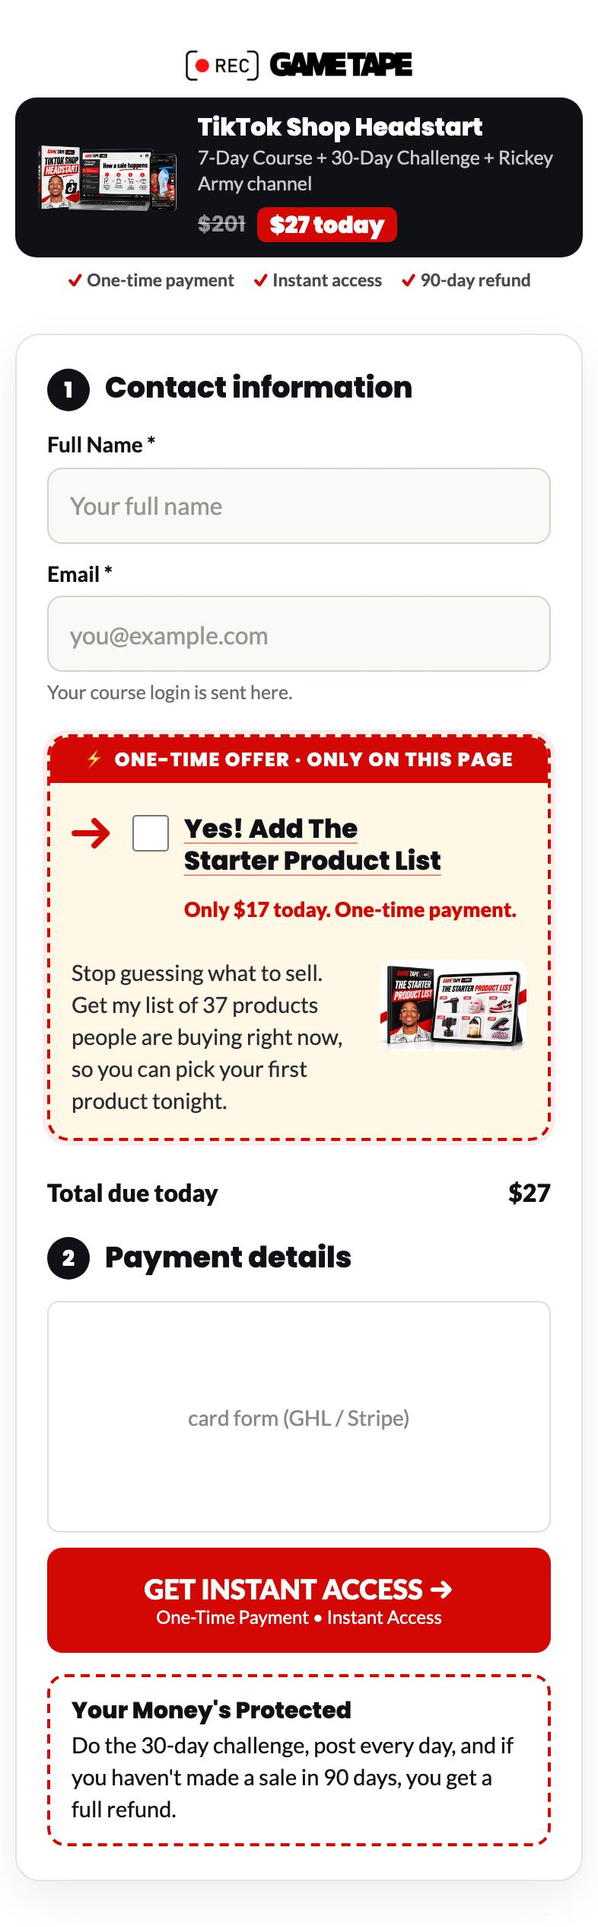
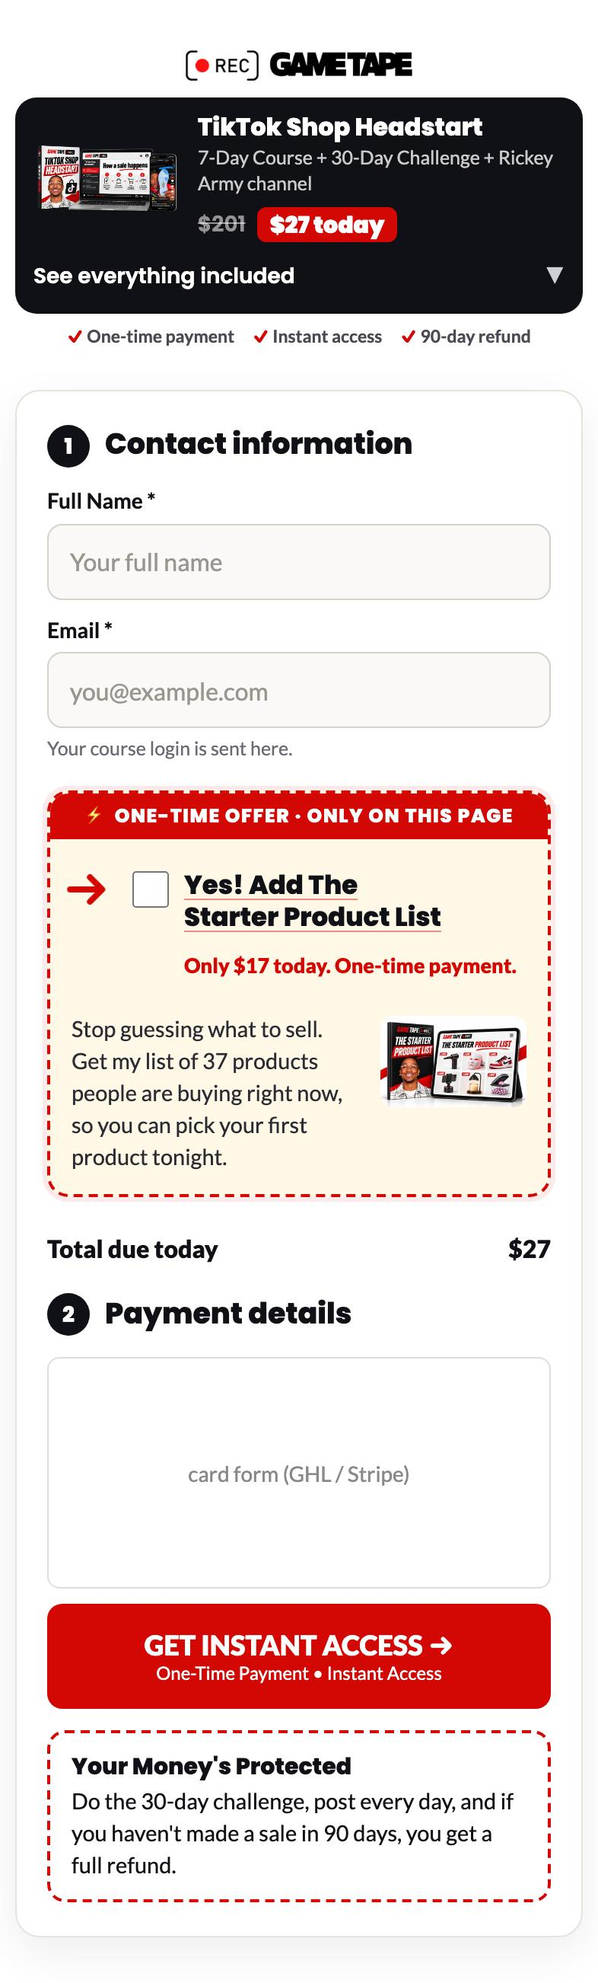
Checkout: 'See everything included' toggle on the phone card, built from data and checked

diff --git a/examples/rickey-headstart/funnel-pages/preview/checkout.html b/examples/rickey-headstart/funnel-pages/preview/checkout.html
@@ -1,5 +1,6 @@
 <!doctype html><html lang="en"><head><meta charset="utf-8"><meta name="viewport" content="width=device-width,initial-scale=1"><title>Checkout preview</title></head><body><style>body{margin:0;font-family:Arial,sans-serif}.section-x{padding:20px 0}.c-row{max-width:1170px;margin:0 auto;display:flex;flex-wrap:wrap;padding:10px 5px;box-sizing:border-box}.c-column{flex:1 1 0;min-width:0;padding:10px 5px;box-sizing:border-box}.order-form__surface{padding:10px}.order-form__field-grid{display:grid;grid-template-columns:1fr 1fr;gap:10px}.order-form__input{width:100%;border:0;border-bottom:1px solid #ccc;height:32px}.order-form__prod{display:flex;justify-content:space-between}.order-form__bump{display:flex;gap:8px;padding:12px}.order-form__bump-headline{text-align:right}.order-form__bump-oto{text-align:right}.order-form__summary-row{display:flex;justify-content:space-between;padding:6px 0}.mock-card{height:150px;border:1px solid #ddd;border-radius:8px;display:flex;align-items:center;justify-content:center;color:#888;font-size:14px;margin:10px 0}.order-form__cta{width:100%;border:0;border-radius:10px;padding:16px;background:#D30805;color:#ffffff;font-weight:800;font-size:18px}.order-form__cta-sub{display:block;font-size:12px;font-weight:400}.c-button{text-align:center}.mocknote{background:#fffbe6;border-bottom:1px solid #eadf9c;font:12px/1.4 Arial;padding:6px 10px;color:#5c5200}@media(max-width:767px){.c-row{display:block}.order-form__field-grid{grid-template-columns:1fr}}</style><div class="section-x"><div class="c-row"><div class="c-column"><div class="inner"><div class="c-custom-code"><div id="gtc-root"><!-- Checkout: left column + styling for the GHL order form and order bump on the right. Root id: gtc-root
-     Desktop: full offer column (.gtc-d). Phone: one compact card (.gtc-m) so the form shows on the first screen.
+     Desktop: full offer column (.gtc-d). Phone: one compact card (.gtc-m) so the form shows on the first screen;
+     "See everything included" on it opens the value stack and the guarantee.
      No wrapper fix here on purpose (it would push the order form under this column). Built by tools/build_funnel_pages.py -->
 <link rel="preconnect" href="https://fonts.gstatic.com" crossorigin>
 <link href="https://fonts.googleapis.com/css2?family=Poppins:wght@600;700;800;900&amp;family=Lato:wght@400;700;900&amp;family=Caveat:wght@600;700&amp;display=swap" rel="stylesheet">
@@ -42,12 +43,41 @@
  .gtc-m .pr{display:flex;align-items:center;gap:8px;font:800 14px/1 Poppins,sans-serif}
  .gtc-m .pr s{color:rgba(255,255,255,.55);font-weight:600}
  .gtc-m .pr b{background:#D30805;color:#ffffff;border-radius:6px;padding:4px 8px;font-size:15px}
+ /* "See everything included": closed on load, opens the value stack + the guarantee */
+ #gtc .gtc-m .more{grid-column:1/-1;margin-top:-12px}
+ #gtc .gtc-m .tg{position:relative;display:flex;align-items:center;justify-content:space-between;width:100%;margin:0;padding:12px 0 4px;background:none;border:0;border-radius:0;box-shadow:none;color:#fff;font:600 14px/1.5 Poppins,sans-serif;letter-spacing:0;text-transform:none;text-align:left;cursor:pointer;-webkit-appearance:none;appearance:none;-webkit-tap-highlight-color:transparent}
+ #gtc .gtc-m .tg:after{content:"";position:absolute;left:-12px;right:-12px;top:2px;bottom:-10px}
+ #gtc .gtc-m .tg:focus{outline:none}
+ #gtc .gtc-m .tg:focus-visible{outline:2px solid #fff;outline-offset:2px;border-radius:6px}
+ #gtc .gtc-m .chev{font-size:13px;line-height:1;color:#cfcfd6;transition:transform .35s ease}
+ #gtc .gtc-m .tg[aria-expanded="true"] .chev{transform:rotate(180deg)}
+ #gtc .gtc-m .pn{display:grid;grid-template-rows:0fr;opacity:0;visibility:hidden;margin-top:0;transition:grid-template-rows .4s ease,opacity .3s ease,margin .3s ease,visibility 0s linear .4s}
+ #gtc .gtc-m .pn.open{grid-template-rows:1fr;opacity:1;visibility:visible;margin-top:8px;transition:grid-template-rows .4s ease,opacity .3s ease,margin .3s ease,visibility 0s}
+ #gtc .gtc-m .pn>.in{overflow:hidden;min-height:0}
+ #gtc .gtc-m .it{display:flex;align-items:center;justify-content:space-between;gap:10px;padding:9px 0;border-bottom:1px solid rgba(255,255,255,.13)}
+ #gtc .gtc-m .it .l{display:flex;align-items:center;gap:9px}
+ #gtc .gtc-m .ok{flex:0 0 19px;width:19px;height:19px;border-radius:50%;background:#D30805;color:#ffffff;font:900 11px/19px Lato,system-ui,sans-serif;text-align:center}
+ #gtc .gtc-m .it .nm{font:600 13px/1.35 Poppins,sans-serif}
+ #gtc .gtc-m .it s,#gtc .gtc-m .tl s{color:rgba(255,255,255,.55);font:600 13px/1.2 Poppins,sans-serif}
+ #gtc .gtc-m .tl{display:flex;align-items:center;justify-content:space-between;gap:10px;padding:12px 0 2px;color:rgba(255,255,255,.8);font:400 14px/1.3 Lato,system-ui,sans-serif}
+ #gtc .gtc-m .tl .rt{display:flex;align-items:center;gap:8px}
+ #gtc .gtc-m .tl s{font-weight:700;font-size:16px}
+ #gtc .gtc-m .sv{background:rgba(211,8,5,.22);color:#fff;font:700 11px/1.5 Poppins,sans-serif;padding:3px 9px;border-radius:999px;white-space:nowrap}
+ #gtc .gtc-m .td{display:flex;align-items:baseline;justify-content:space-between;margin-top:6px;font:600 16px/1.3 Poppins,sans-serif}
+ #gtc .gtc-m .td b{font:800 24px/1.2 Poppins,sans-serif}
+ #gtc .gtc-m .td small{font:600 13px/1 Poppins,sans-serif;color:rgba(255,255,255,.7)}
+ #gtc .gtc-m .gr{display:flex;gap:9px;margin:12px 0 2px;padding:11px 12px;background:rgba(255,255,255,.05);border:1px dashed rgba(255,255,255,.25);border-radius:12px}
+ #gtc .gtc-m .gr p{margin:0;color:rgba(255,255,255,.88);font:400 12.5px/1.45 Lato,system-ui,sans-serif}
+ #gtc .gtc-m .gr p b{color:#fff;font-weight:700}
+ #gtc .gtc-m .gr small{font-size:11.5px;color:rgba(255,255,255,.75)}
  .gtc-m .tr{display:flex;justify-content:center;gap:12px;flex-wrap:wrap;margin:8px 0 0;font:700 11.5px/1.2 Lato,system-ui,sans-serif;color:#4a4a55}
  .gtc-m .tr span:before{content:"✓ ";color:#D30805;font-weight:900}
  /* less empty space around the GHL rows on phones */
  [class*="section-"]:has(.c-order-form){padding-top:6px!important;padding-bottom:6px!important}
  .c-column:has(#gtc-root)>.inner,.c-column:has(.c-order-form)>.inner{padding-top:4px!important;padding-bottom:4px!important}
 }
+
+@media(prefers-reduced-motion:reduce){#gtc .gtc-m .pn,#gtc .gtc-m .chev{transition:none!important}}
 
 /* ---------- GHL order form ---------- */
 .c-order-form,.c-order-form *{font-family:Lato,system-ui,sans-serif}
@@ -130,6 +160,17 @@
         <p class="inc">7-Day Course + 30-Day Challenge + Rickey Army channel</p>
         <div class="pr"><s>$201</s><b>$27 today</b></div>
       </div>
+      <div class="more">
+        <button type="button" class="tg" aria-expanded="false" aria-controls="gtc-more"><span class="lb">See everything included</span><span class="chev" aria-hidden="true">▼</span></button>
+        <div class="pn" id="gtc-more"><div class="in">
+            <div class="it"><span class="l"><span class="ok">✓</span><span class="nm">The 7-Day Headstart Course</span></span><s>$57</s></div>
+            <div class="it"><span class="l"><span class="ok">✓</span><span class="nm">The 30-Day First Sale Challenge</span></span><s>$47</s></div>
+            <div class="it"><span class="l"><span class="ok">✓</span><span class="nm">The Rickey Army Private Channel</span></span><s>$97</s></div>
+            <div class="tl"><span>Total value</span><span class="rt"><span class="sv">You save $174</span><s>$201</s></span></div>
+            <div class="td"><span>Today</span><b>$27 <small>one-time</small></b></div>
+            <div class="gr"><span class="ok">✓</span><p><b>Your Money's Protected.</b> Do the 30-day challenge, post every day, and if you haven't made a sale in 90 days, you get a full refund.</p></div>
+        </div></div>
+      </div>
     </div>
     <div class="tr"><span>One-time payment</span><span>Instant access</span><span>90-day refund</span></div>
   </div>
@@ -157,6 +198,13 @@ document.title="Checkout | TikTok Shop Headstart";
       if(IMG&&d&&!d.querySelector('.gt-bump-img')){var i=document.createElement('img');i.className='gt-bump-img';i.src=IMG;i.alt=ALT;d.insertBefore(i,d.firstChild);}
     }
   }
+  // phone card: open / close "See everything included" (one listener on the page, so a re-rendered card keeps working)
+  if(!window.__gtcToggle){window.__gtcToggle=1;document.addEventListener('click',function(ev){
+    var tg=ev.target.closest&&ev.target.closest('#gtc .tg'); if(!tg) return;
+    var open=tg.getAttribute('aria-expanded')!=='true';
+    tg.setAttribute('aria-expanded',open?'true':'false'); tg.parentNode.querySelector('.pn').classList.toggle('open',open);
+    tg.querySelector('.lb').textContent=open?"Hide the details":"See everything included";
+  });}
   enhance();
   var tries=0,iv=setInterval(function(){enhance();if(++tries>40)clearInterval(iv);},250);
   if('MutationObserver' in window){new MutationObserver(function(){enhance();}).observe(document.body,{childList:true,subtree:true});}

diff --git a/examples/rickey-headstart/funnel-pages/dist/checkout-left.html b/examples/rickey-headstart/funnel-pages/dist/checkout-left.html
@@ -1,5 +1,6 @@
 <!-- Checkout: left column + styling for the GHL order form and order bump on the right. Root id: gtc-root
-     Desktop: full offer column (.gtc-d). Phone: one compact card (.gtc-m) so the form shows on the first screen.
+     Desktop: full offer column (.gtc-d). Phone: one compact card (.gtc-m) so the form shows on the first screen;
+     "See everything included" on it opens the value stack and the guarantee.
      No wrapper fix here on purpose (it would push the order form under this column). Built by tools/build_funnel_pages.py -->
 <link rel="preconnect" href="https://fonts.gstatic.com" crossorigin>
 <link href="https://fonts.googleapis.com/css2?family=Poppins:wght@600;700;800;900&amp;family=Lato:wght@400;700;900&amp;family=Caveat:wght@600;700&amp;display=swap" rel="stylesheet">
@@ -42,12 +43,41 @@
  .gtc-m .pr{display:flex;align-items:center;gap:8px;font:800 14px/1 Poppins,sans-serif}
  .gtc-m .pr s{color:rgba(255,255,255,.55);font-weight:600}
  .gtc-m .pr b{background:#D30805;color:#ffffff;border-radius:6px;padding:4px 8px;font-size:15px}
+ /* "See everything included": closed on load, opens the value stack + the guarantee */
+ #gtc .gtc-m .more{grid-column:1/-1;margin-top:-12px}
+ #gtc .gtc-m .tg{position:relative;display:flex;align-items:center;justify-content:space-between;width:100%;margin:0;padding:12px 0 4px;background:none;border:0;border-radius:0;box-shadow:none;color:#fff;font:600 14px/1.5 Poppins,sans-serif;letter-spacing:0;text-transform:none;text-align:left;cursor:pointer;-webkit-appearance:none;appearance:none;-webkit-tap-highlight-color:transparent}
+ #gtc .gtc-m .tg:after{content:"";position:absolute;left:-12px;right:-12px;top:2px;bottom:-10px}
+ #gtc .gtc-m .tg:focus{outline:none}
+ #gtc .gtc-m .tg:focus-visible{outline:2px solid #fff;outline-offset:2px;border-radius:6px}
+ #gtc .gtc-m .chev{font-size:13px;line-height:1;color:#cfcfd6;transition:transform .35s ease}
+ #gtc .gtc-m .tg[aria-expanded="true"] .chev{transform:rotate(180deg)}
+ #gtc .gtc-m .pn{display:grid;grid-template-rows:0fr;opacity:0;visibility:hidden;margin-top:0;transition:grid-template-rows .4s ease,opacity .3s ease,margin .3s ease,visibility 0s linear .4s}
+ #gtc .gtc-m .pn.open{grid-template-rows:1fr;opacity:1;visibility:visible;margin-top:8px;transition:grid-template-rows .4s ease,opacity .3s ease,margin .3s ease,visibility 0s}
+ #gtc .gtc-m .pn>.in{overflow:hidden;min-height:0}
+ #gtc .gtc-m .it{display:flex;align-items:center;justify-content:space-between;gap:10px;padding:9px 0;border-bottom:1px solid rgba(255,255,255,.13)}
+ #gtc .gtc-m .it .l{display:flex;align-items:center;gap:9px}
+ #gtc .gtc-m .ok{flex:0 0 19px;width:19px;height:19px;border-radius:50%;background:#D30805;color:#ffffff;font:900 11px/19px Lato,system-ui,sans-serif;text-align:center}
+ #gtc .gtc-m .it .nm{font:600 13px/1.35 Poppins,sans-serif}
+ #gtc .gtc-m .it s,#gtc .gtc-m .tl s{color:rgba(255,255,255,.55);font:600 13px/1.2 Poppins,sans-serif}
+ #gtc .gtc-m .tl{display:flex;align-items:center;justify-content:space-between;gap:10px;padding:12px 0 2px;color:rgba(255,255,255,.8);font:400 14px/1.3 Lato,system-ui,sans-serif}
+ #gtc .gtc-m .tl .rt{display:flex;align-items:center;gap:8px}
+ #gtc .gtc-m .tl s{font-weight:700;font-size:16px}
+ #gtc .gtc-m .sv{background:rgba(211,8,5,.22);color:#fff;font:700 11px/1.5 Poppins,sans-serif;padding:3px 9px;border-radius:999px;white-space:nowrap}
+ #gtc .gtc-m .td{display:flex;align-items:baseline;justify-content:space-between;margin-top:6px;font:600 16px/1.3 Poppins,sans-serif}
+ #gtc .gtc-m .td b{font:800 24px/1.2 Poppins,sans-serif}
+ #gtc .gtc-m .td small{font:600 13px/1 Poppins,sans-serif;color:rgba(255,255,255,.7)}
+ #gtc .gtc-m .gr{display:flex;gap:9px;margin:12px 0 2px;padding:11px 12px;background:rgba(255,255,255,.05);border:1px dashed rgba(255,255,255,.25);border-radius:12px}
+ #gtc .gtc-m .gr p{margin:0;color:rgba(255,255,255,.88);font:400 12.5px/1.45 Lato,system-ui,sans-serif}
+ #gtc .gtc-m .gr p b{color:#fff;font-weight:700}
+ #gtc .gtc-m .gr small{font-size:11.5px;color:rgba(255,255,255,.75)}
  .gtc-m .tr{display:flex;justify-content:center;gap:12px;flex-wrap:wrap;margin:8px 0 0;font:700 11.5px/1.2 Lato,system-ui,sans-serif;color:#4a4a55}
  .gtc-m .tr span:before{content:"✓ ";color:#D30805;font-weight:900}
  /* less empty space around the GHL rows on phones */
  [class*="section-"]:has(.c-order-form){padding-top:6px!important;padding-bottom:6px!important}
  .c-column:has(#gtc-root)>.inner,.c-column:has(.c-order-form)>.inner{padding-top:4px!important;padding-bottom:4px!important}
 }
+
+@media(prefers-reduced-motion:reduce){#gtc .gtc-m .pn,#gtc .gtc-m .chev{transition:none!important}}
 
 /* ---------- GHL order form ---------- */
 .c-order-form,.c-order-form *{font-family:Lato,system-ui,sans-serif}
@@ -130,6 +160,17 @@
         <p class="inc">7-Day Course + 30-Day Challenge + Rickey Army channel</p>
         <div class="pr"><s>$201</s><b>$27 today</b></div>
       </div>
+      <div class="more">
+        <button type="button" class="tg" aria-expanded="false" aria-controls="gtc-more"><span class="lb">See everything included</span><span class="chev" aria-hidden="true">▼</span></button>
+        <div class="pn" id="gtc-more"><div class="in">
+            <div class="it"><span class="l"><span class="ok">✓</span><span class="nm">The 7-Day Headstart Course</span></span><s>$57</s></div>
+            <div class="it"><span class="l"><span class="ok">✓</span><span class="nm">The 30-Day First Sale Challenge</span></span><s>$47</s></div>
+            <div class="it"><span class="l"><span class="ok">✓</span><span class="nm">The Rickey Army Private Channel</span></span><s>$97</s></div>
+            <div class="tl"><span>Total value</span><span class="rt"><span class="sv">You save $174</span><s>$201</s></span></div>
+            <div class="td"><span>Today</span><b>$27 <small>one-time</small></b></div>
+            <div class="gr"><span class="ok">✓</span><p><b>Your Money's Protected.</b> Do the 30-day challenge, post every day, and if you haven't made a sale in 90 days, you get a full refund.</p></div>
+        </div></div>
+      </div>
     </div>
     <div class="tr"><span>One-time payment</span><span>Instant access</span><span>90-day refund</span></div>
   </div>
@@ -157,6 +198,13 @@ document.title="Checkout | TikTok Shop Headstart";
       if(IMG&&d&&!d.querySelector('.gt-bump-img')){var i=document.createElement('img');i.className='gt-bump-img';i.src=IMG;i.alt=ALT;d.insertBefore(i,d.firstChild);}
     }
   }
+  // phone card: open / close "See everything included" (one listener on the page, so a re-rendered card keeps working)
+  if(!window.__gtcToggle){window.__gtcToggle=1;document.addEventListener('click',function(ev){
+    var tg=ev.target.closest&&ev.target.closest('#gtc .tg'); if(!tg) return;
+    var open=tg.getAttribute('aria-expanded')!=='true';
+    tg.setAttribute('aria-expanded',open?'true':'false'); tg.parentNode.querySelector('.pn').classList.toggle('open',open);
+    tg.querySelector('.lb').textContent=open?"Hide the details":"See everything included";
+  });}
   enhance();
   var tries=0,iv=setInterval(function(){enhance();if(++tries>40)clearInterval(iv);},250);
   if('MutationObserver' in window){new MutationObserver(function(){enhance();}).observe(document.body,{childList:true,subtree:true});}

diff --git a/tools/funnel_templates/checkout.css b/tools/funnel_templates/checkout.css
@@ -36,12 +36,41 @@
  .gtc-m .pr{display:flex;align-items:center;gap:8px;font:800 14px/1 %%HEAD%%}
  .gtc-m .pr s{color:rgba(255,255,255,.55);font-weight:600}
  .gtc-m .pr b{background:%%ACCENT%%;color:%%ON_ACCENT%%;border-radius:6px;padding:4px 8px;font-size:15px}
+ /* "See everything included": closed on load, opens the value stack + the guarantee */
+ #gtc .gtc-m .more{grid-column:1/-1;margin-top:-12px}
+ #gtc .gtc-m .tg{position:relative;display:flex;align-items:center;justify-content:space-between;width:100%;margin:0;padding:12px 0 4px;background:none;border:0;border-radius:0;box-shadow:none;color:#fff;font:600 14px/1.5 %%HEAD%%;letter-spacing:0;text-transform:none;text-align:left;cursor:pointer;-webkit-appearance:none;appearance:none;-webkit-tap-highlight-color:transparent}
+ #gtc .gtc-m .tg:after{content:"";position:absolute;left:-12px;right:-12px;top:2px;bottom:-10px}
+ #gtc .gtc-m .tg:focus{outline:none}
+ #gtc .gtc-m .tg:focus-visible{outline:2px solid #fff;outline-offset:2px;border-radius:6px}
+ #gtc .gtc-m .chev{font-size:13px;line-height:1;color:#cfcfd6;transition:transform .35s ease}
+ #gtc .gtc-m .tg[aria-expanded="true"] .chev{transform:rotate(180deg)}
+ #gtc .gtc-m .pn{display:grid;grid-template-rows:0fr;opacity:0;visibility:hidden;margin-top:0;transition:grid-template-rows .4s ease,opacity .3s ease,margin .3s ease,visibility 0s linear .4s}
+ #gtc .gtc-m .pn.open{grid-template-rows:1fr;opacity:1;visibility:visible;margin-top:8px;transition:grid-template-rows .4s ease,opacity .3s ease,margin .3s ease,visibility 0s}
+ #gtc .gtc-m .pn>.in{overflow:hidden;min-height:0}
+ #gtc .gtc-m .it{display:flex;align-items:center;justify-content:space-between;gap:10px;padding:9px 0;border-bottom:1px solid rgba(255,255,255,.13)}
+ #gtc .gtc-m .it .l{display:flex;align-items:center;gap:9px}
+ #gtc .gtc-m .ok{flex:0 0 19px;width:19px;height:19px;border-radius:50%;background:%%ACCENT%%;color:%%ON_ACCENT%%;font:900 11px/19px %%BODY%%;text-align:center}
+ #gtc .gtc-m .it .nm{font:600 13px/1.35 %%HEAD%%}
+ #gtc .gtc-m .it s,#gtc .gtc-m .tl s{color:rgba(255,255,255,.55);font:600 13px/1.2 %%VAL%%}
+ #gtc .gtc-m .tl{display:flex;align-items:center;justify-content:space-between;gap:10px;padding:12px 0 2px;color:rgba(255,255,255,.8);font:400 14px/1.3 %%BODY%%}
+ #gtc .gtc-m .tl .rt{display:flex;align-items:center;gap:8px}
+ #gtc .gtc-m .tl s{font-weight:700;font-size:16px}
+ #gtc .gtc-m .sv{background:rgba(%%ACCENT_RGB%%,.22);color:#fff;font:700 11px/1.5 %%HEAD%%;padding:3px 9px;border-radius:999px;white-space:nowrap}
+ #gtc .gtc-m .td{display:flex;align-items:baseline;justify-content:space-between;margin-top:6px;font:600 16px/1.3 %%HEAD%%}
+ #gtc .gtc-m .td b{font:800 24px/1.2 %%VAL%%}
+ #gtc .gtc-m .td small{font:600 13px/1 %%HEAD%%;color:rgba(255,255,255,.7)}
+ #gtc .gtc-m .gr{display:flex;gap:9px;margin:12px 0 2px;padding:11px 12px;background:rgba(255,255,255,.05);border:1px dashed rgba(255,255,255,.25);border-radius:12px}
+ #gtc .gtc-m .gr p{margin:0;color:rgba(255,255,255,.88);font:400 12.5px/1.45 %%BODY%%}
+ #gtc .gtc-m .gr p b{color:#fff;font-weight:700}
+ #gtc .gtc-m .gr small{font-size:11.5px;color:rgba(255,255,255,.75)}
  .gtc-m .tr{display:flex;justify-content:center;gap:12px;flex-wrap:wrap;margin:8px 0 0;font:700 11.5px/1.2 %%BODY%%;color:#4a4a55}
  .gtc-m .tr span:before{content:"✓ ";color:%%ACCENT_TEXT%%;font-weight:900}
  /* less empty space around the GHL rows on phones */
  [class*="section-"]:has(.c-order-form){padding-top:6px!important;padding-bottom:6px!important}
  .c-column:has(#%%ROOT%%)>.inner,.c-column:has(.c-order-form)>.inner{padding-top:4px!important;padding-bottom:4px!important}
 }
+
+@media(prefers-reduced-motion:reduce){#gtc .gtc-m .pn,#gtc .gtc-m .chev{transition:none!important}}
 
 /* ---------- GHL order form ---------- */
 .c-order-form,.c-order-form *{font-family:%%BODY%%}

diff --git a/tools/build_funnel_pages.py b/tools/build_funnel_pages.py
@@ -307,9 +307,16 @@ def checkout(c):
     gnote = '<br><small>%s</small>' % rich(L(c, 'guarantee_scope', 'This guarantee is for %s.' % plain(m['name']))) if bump and not m.get('guarantee_covers_bump') else ''
     gphone = gtitle + rich(g['text']) + gnote
     spans = ''.join('<span>%s</span>' % rich(x) for x in m['trust'])
+    price = money(m['price']); one = ' <small>%s</small>' % rich(L(c, 'one_time', 'one-time')) if 'one-time' in plain(' '.join(m['trust'])).lower() else ''
+    its = ''.join(f'            <div class="it"><span class="l"><span class="ok">✓</span><span class="nm">{rich(i["name"])}</span></span>{crossed(i.get("value"))}</div>\n' for i in m['items'])
+    sv = f'<span class="sv">{rich(L(c, "summary_save", "You save"))} {fmt(total - price)}</span>' if total and price and total > price else ''
+    tl = f'            <div class="tl"><span>{rich(L(c, "total", "Total value"))}</span><span class="rt">{sv}<s>{fmt(total)}</s></span></div>\n' if total else ''
+    gt = plain(g.get('title')); gt = '<b>%s</b> ' % rich(g['title'] + ('' if gt[-1:] in '.!?' else '.')) if gt else ''
+    seeall, hide = L(c, 'see_everything', 'See everything included'), L(c, 'hide_details', 'Hide the details')
     card = 'card' if thumb else 'card" style="grid-template-columns:1fr'
     return f'''<!-- Checkout: left column + styling for the GHL order form and order bump on the right. Root id: {t["ROOT"]}
-     Desktop: full offer column (.gtc-d). Phone: one compact card (.gtc-m) so the form shows on the first screen.
+     Desktop: full offer column (.gtc-d). Phone: one compact card (.gtc-m) so the form shows on the first screen;
+     "See everything included" on it opens the value stack and the guarantee.
      No wrapper fix here on purpose (it would push the order form under this column). Built by tools/build_funnel_pages.py -->
 {fonts(c)}
 <style>
@@ -339,6 +346,13 @@ def checkout(c):
         <p class="inc">{rich(m["includes_line"])}</p>
         <div class="pr">{crossed(fmt(total) if total else "")}<b>{rich(m["price"])} today</b></div>
       </div>
+      <div class="more">
+        <button type="button" class="tg" aria-expanded="false" aria-controls="gtc-more"><span class="lb">{rich(seeall)}</span><span class="chev" aria-hidden="true">▼</span></button>
+        <div class="pn" id="gtc-more"><div class="in">
+{its}{tl}            <div class="td"><span>Today</span><b>{rich(m["price"])}{one}</b></div>
+            <div class="gr"><span class="ok">✓</span><p>{gt}{rich(g["text"])}{gnote}</p></div>
+        </div></div>
+      </div>
     </div>
     <div class="tr">{spans}</div>
   </div>
@@ -367,6 +381,13 @@ document.title={js("Checkout | " + plain(m["name"]))};
       if(IMG&&d&&!d.querySelector('.gt-bump-img')){{var i=document.createElement('img');i.className='gt-bump-img';i.src=IMG;i.alt=ALT;d.insertBefore(i,d.firstChild);}}
     }}
   }}
+  // phone card: open / close "See everything included" (one listener on the page, so a re-rendered card keeps working)
+  if(!window.__gtcToggle){{window.__gtcToggle=1;document.addEventListener('click',function(ev){{
+    var tg=ev.target.closest&&ev.target.closest('#gtc .tg'); if(!tg) return;
+    var open=tg.getAttribute('aria-expanded')!=='true';
+    tg.setAttribute('aria-expanded',open?'true':'false'); tg.parentNode.querySelector('.pn').classList.toggle('open',open);
+    tg.querySelector('.lb').textContent=open?{js(plain(hide))}:{js(plain(seeall))};
+  }});}}
   enhance();
   var tries=0,iv=setInterval(function(){{enhance();if(++tries>40)clearInterval(iv);}},250);
   if('MutationObserver' in window){{new MutationObserver(function(){{enhance();}}).observe(document.body,{{childList:true,subtree:true}});}}

diff --git a/stages/funnel-2-checkout-and-bump.md b/stages/funnel-2-checkout-and-bump.md
@@ -16,17 +16,18 @@
    - "Select product" and the subtotal are hidden; "Total due today" stays and changes when the box is ticked, and back;
    - desktop: the left column repeats the promise, what they get, the total value, today's price and the guarantee in the approved words.
 4. **Change copy in the JSON.** A design change for this client only goes in `my-funnel-pages/extra-checkout.css` (or `extra-upsell.css`, `extra-thank-you.css`): the build adds it after the standard styles every time. A change every client should get goes in the playbook's `tools/funnel_templates/`. Never edit `dist/` by hand: the next build overwrites it.
-5. Open `shots/checkout-phone-bump-ticked.png` too: the ticked box must look clearly chosen and the total must have changed.
+5. Open `shots/checkout-phone-details-open.png`: the phone card opened with "See everything included" shows every item with its value, the total, what they save, today's price and the guarantee, nothing cut off. Then open `shots/checkout-phone-bump-ticked.png` too: the ticked box must look clearly chosen and the total must have changed.
 
 ## Rules
 - Only Full Name and Email for a digital product. One-step form. No quantity, coupons or second product.
 - The sales page never mentions the bump. The build checks this when `sales_page` is set in the JSON. If there is no file, read the live page yourself, then accept the `sales_page` CHECK.
 - If the main guarantee doesn't cover the bump, `guarantee_covers_bump: false` adds one line saying what it's for.
-- On phones the left column is hidden, so the guarantee shows under the order button, added by the page's script (never tried on a live GHL page yet: look at it there).
+- On phones the left column is hidden. The compact card carries a **"See everything included"** toggle: closed on load (only that label, no extra line under it), it opens the value stack and the guarantee, then reads "Hide the details". It comes from the same data as desktop, so nothing to write. It adds about 37px, and the first field still shows on the first screen. Live on Rickey's checkout since Nov 24; its effect on sales isn't measured.
+- The guarantee also shows under the order button, added by the page's script (never tried on a live GHL page yet: look at it there).
 - The bump's file isn't in the main course. Its delivery is its own (see `funnel-offers.md`, "Who gets what").
 - Legal links (privacy, terms, refunds) show under the left column when the JSON has them. Never write legal text.
 - GHL re-renders its form when the bump is ticked, so anything added by script must check before adding. The built script does.
 
 ## Done when
 - [ ] Checker passes checkout at both sizes; bump totals go base → base + bump → base.
-- [ ] You looked at all four checkout screenshots.
+- [ ] The phone toggle opens and closes; you looked at all five checkout screenshots.

diff --git a/knowledge/upsell-and-bump.md b/knowledge/upsell-and-bump.md
@@ -111,8 +111,9 @@ Two columns, like the user's reference checkout: left = offer summary (custom HT
     - includes line "7-Day Course + 30-Day Challenge + Rickey Army channel" (12.5px, 78% white);
     - price row ~~$201~~ + red badge "$27 today" (15px).
   - **Trust row** under the card, centered, 11.5px #4a4a55, each item prefixed with a red ✓: "One-time payment · Instant access · 90-day refund".
+  - **"See everything included" toggle** inside the card (v1.1, Nov 24): closed = that label and a ▼ only (a line listing the items would repeat the includes line above it); open = "Hide the details" ▲, ✓ item + crossed value rows, Total value with a "You save $X" pill, "Today $X one-time", the guarantee in a dashed box. One click listener on the page, `aria-expanded`, hidden from screen readers while closed, no motion under reduced motion.
   - Less builder spacing on phones only: `[class*="section-"]:has(.c-order-form){padding-top:6px!important;padding-bottom:6px!important}` and `.c-column:has(#gtc-root)>.inner,.c-column:has(.c-order-form)>.inner{padding-top:4px!important;padding-bottom:4px!important}`.
-- General rule: on phones, the summary is at most one card plus one trust line (~140px tall), and the first input sits in the top half of a 393×852 screen. Desktop stays unchanged.
+- General rule: on phones, the summary is at most one card plus one trust line (~140px tall, ~180px with the closed toggle), and the first input sits in the top half of a 393×852 screen. Desktop stays unchanged.
 
 ### E3. Contact-form polish (generic rules + the GHL selectors used)
 - **Surface:** white card, `1px solid #E7E3DC`, radius 16, `box-shadow:0 10px 30px rgba(16,16,23,.07)`, padding 22/20 (`.order-form__surface`).

diff --git a/knowledge/feedback-log.md b/knowledge/feedback-log.md
@@ -721,3 +721,9 @@ Each entry: **David's request** → **general rule for any sales page** → **wh
 - **Built:** `@@CHECKOUT@@` in `body-src.html`, filled once from `page-config.json`; `expand_body.py` stops if a button still jumps down the page; `grade.py` fails the routing item.
 - **Not proven:** no traffic data compares this with jumping to the stack.
 - **Also in the ticket (copy):** the section-2 header ends on what the buyer gets ("You Need a Plan That Gets You Sales."), and "watch your milestones stack up" was cut from the third outcome.
+
+### P4.10 Same ticket: "Mobile checkout: add an expandable summary (one addition only)"
+- **He asked for:** the phone checkout exactly as it is, plus a collapsed "See everything included" toggle that opens the value stack and the guarantee; no subline under the label ("that would just duplicate the card's subtitle above it"); desktop unchanged. Then: add it to the playbooks.
+- **Rule:** on phones the checkout shows little and offers everything: one tap opens what they get, the total, the saving, today's price and the guarantee. The form stays on the first screen.
+- **Built:** generated by `build_funnel_pages.py` from the same data as desktop; `check_funnel_pages.mjs` opens and closes it and fails if an item, the price or the guarantee is missing.
+- **Measured on Rickey's live checkout:** the first field moved from 313 to 350px (of 852). Not measured: its effect on sales.

diff --git a/stages/funnel-1-plan.md b/stages/funnel-1-plan.md
@@ -54,7 +54,7 @@ You never edit the JSON by hand: say what to change in plain words and Claude ed
 | `upsells[].video` | A video instead of the image (never run live by us) |
 | `items[].thumb`, `items[].modules` | Small picture; numbered list under the item |
 | `bump.banner`, `main.pill`, `main.email_help`, `main.order_button` | Replace the standard texts |
-| `labels` `{what_you_get, total, offer_head, save, now, order_subtext, guarantee_scope}` | Wording of fixed labels |
+| `labels` `{what_you_get, total, offer_head, save, now, order_subtext, guarantee_scope, see_everything, hide_details, summary_save, one_time}` | Wording of fixed labels |
 | `brand.alert_color` | A stronger color for the alert bar |
 | `thankyou.quote` | Only words the founder said or approved, with `source` |
 | `real_deadline`, `accepted`, `legal` | The client's real deadline; settled CHECKs with a reason; privacy, terms and refund links |
